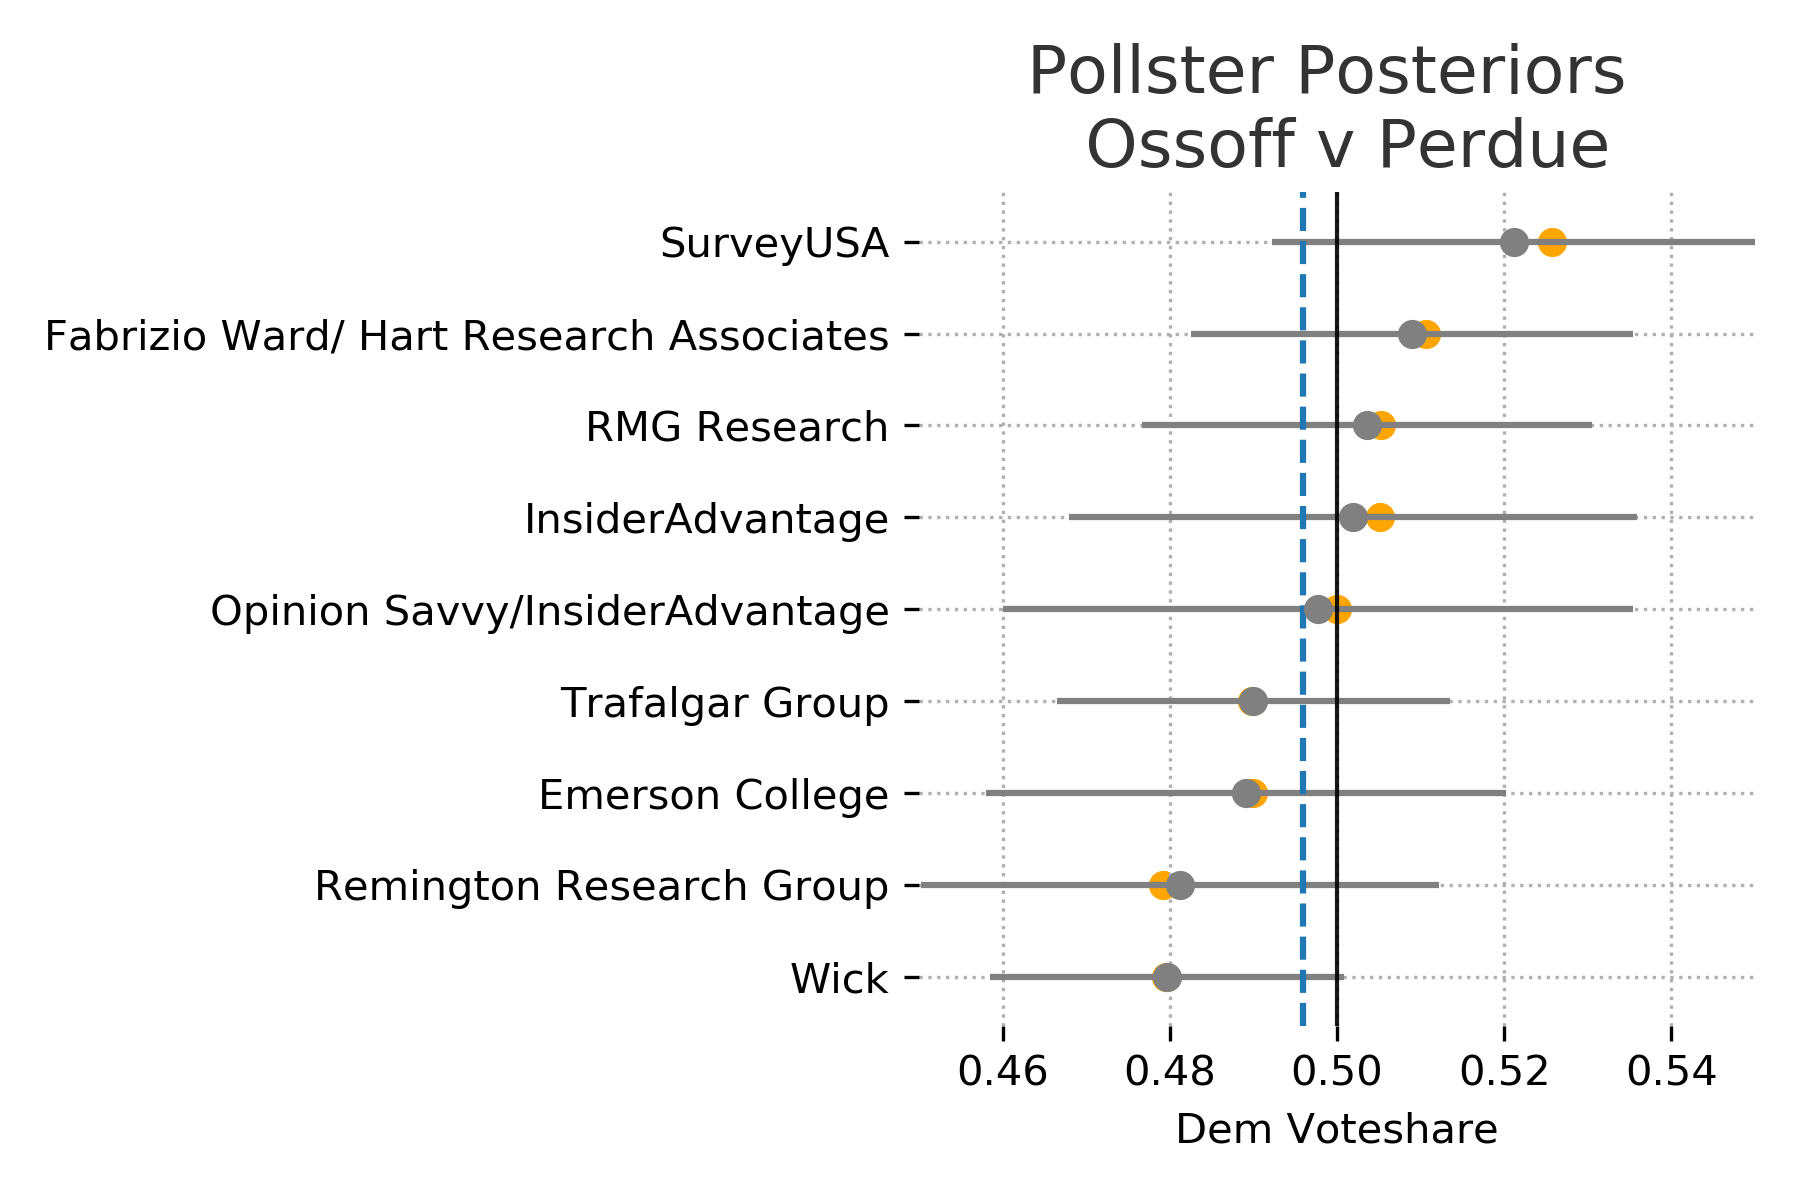
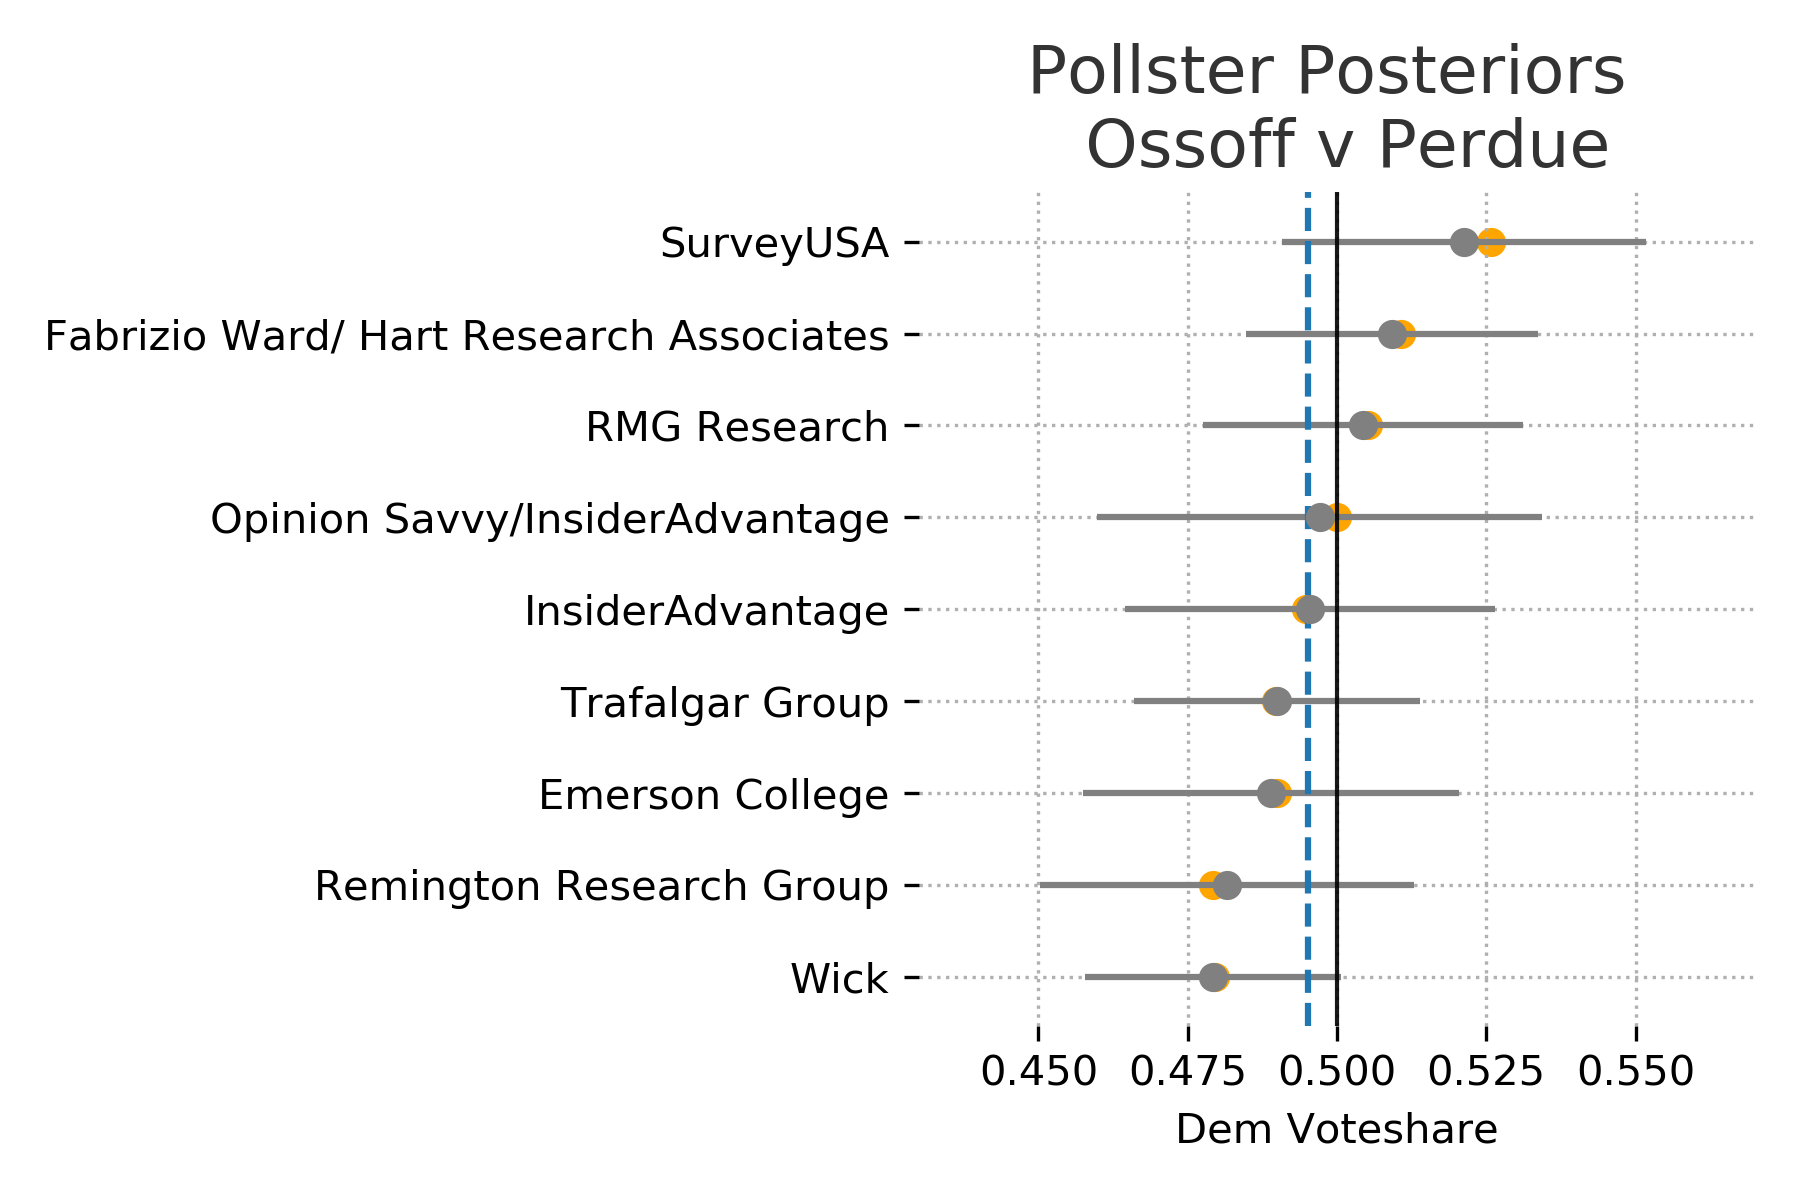
added insideradvantage from 12/22

diff --git a/_posts/2020-12-18-election.md b/_posts/2020-12-18-election.md
@@ -4,14 +4,14 @@ title: Hierarchical Partial Pooling for Georgia Runoff Elections
 published: True
 ---
 
-Updated: Dec 22, 2020
+Updated: Dec 23, 2020
 
-# Warnock: 43.3% - Loeffler: 56.7% 
+# Warnock: 44.8% - Loeffler: 55.2% 
 
 {: .center}
 ![WL Posterior](../images/ga_wl_posteriors.png)
 
-# Ossoff: 42.1% - Perdue: 57.9% 
+# Ossoff: 40.4% - Perdue: 59.5% 
 
 {: .center}
 ![WL Posterior](../images/ga_op_posteriors.png)
@@ -22,10 +22,10 @@ Updated: Dec 22, 2020
 
 | Candidate | Mean | 80% Interval |
 | ----------|------|--------------|
-| Ossoff    | 49.4 | 46.0 - 52.8  |
-| Perdue    | 50.6 | 47.2 - 54.0  |
-| Warnock   | 49.5 | 46.6 - 52.7  |
-| Loeffler  | 50.5 | 47.3 - 53.4  |
+| Ossoff    | 49.4 | 46.0 - 52.7  |
+| Perdue    | 50.6 | 47.3 - 54.0  |
+| Warnock   | 49.6 | 46.6 - 52.8  |
+| Loeffler  | 50.4 | 47.2 - 53.4  |
 
 ## Methods
 
